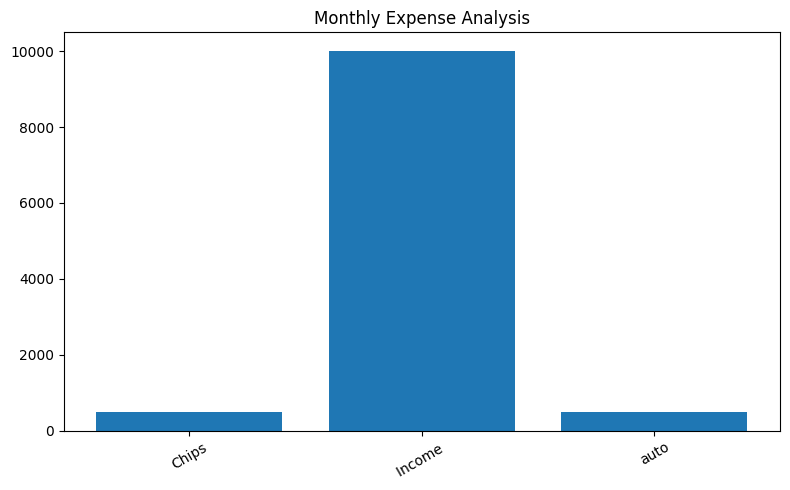
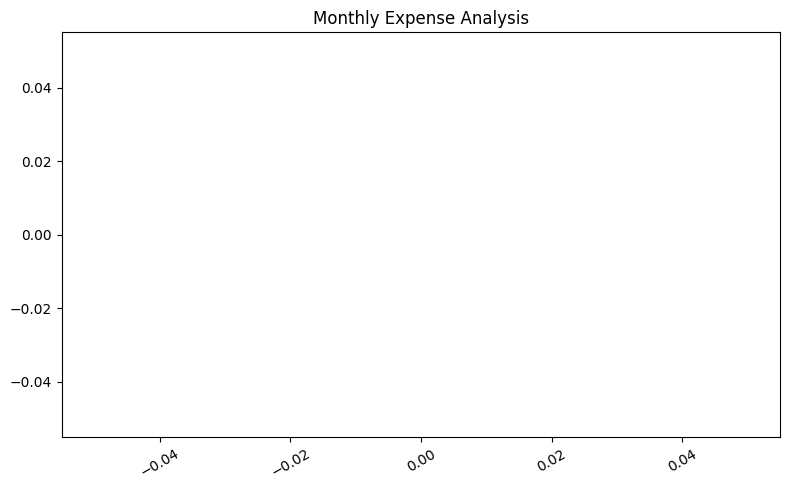
Updated Budget Tracker features

diff --git a/templates/index.html b/templates/index.html
@@ -580,13 +580,13 @@
             </div>
         </div>
 
-        <!-- ================= ADD TRANSACTION (UPDATED - Item only for Expense) ================= -->
+        <!-- ================= ADD TRANSACTION (Purpose instead of Title) ================= -->
         <div class="card">
             <div class="title">➕ Add Transaction</div>
 
             <form method="POST">
-                <!-- Title -->
-                <input type="text" name="title" placeholder="Title (e.g., Morning Food, Salary)" required>
+                <!-- Purpose (was Title) -->
+                <input type="text" name="title" placeholder="Purpose (e.g., Morning Food, Salary)" required>
 
                 <!-- Amount -->
                 <input type="number" name="amount" placeholder="Amount (e.g., 500)" step="0.01" required>
@@ -754,7 +754,7 @@
 
             <table>
                 <tr>
-                    <th>Title</th>
+                    <th>Purpose</th>
                     <th>Amount</th>
                     <th>Category</th>
                     <th>Item</th>
@@ -764,7 +764,7 @@
 
                 {% for t in transactions %}
                 <tr>
-                    <td>{{ t[2] }}</td>   <!-- Title -->
+                    <td>{{ t[2] }}</td>   <!-- Purpose -->
                     <td>₹{{ t[3] }}</td>  <!-- Amount -->
                     <td>{{ t[5] }}</td>   <!-- Category -->
                     <td>{{ t[6] }}</td>   <!-- Item -->
@@ -870,4 +870,4 @@
     </script>
 
 </body>
-</html> 
+</html>